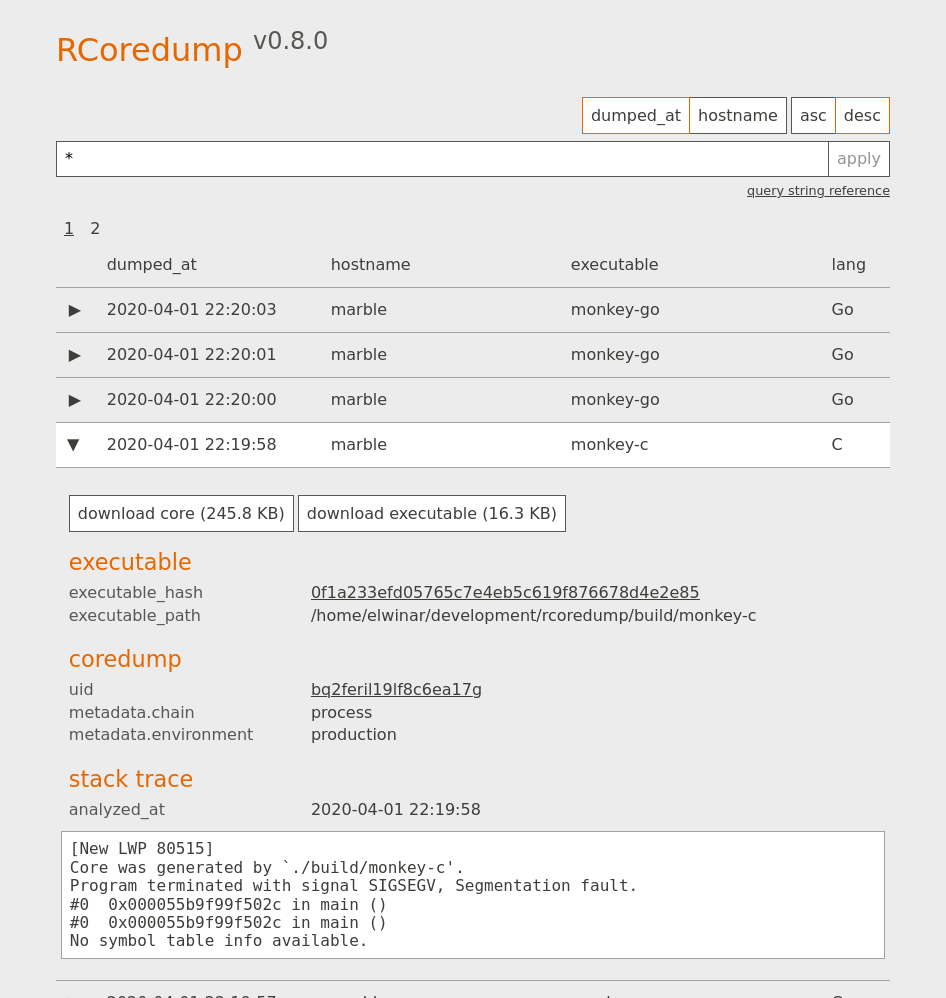
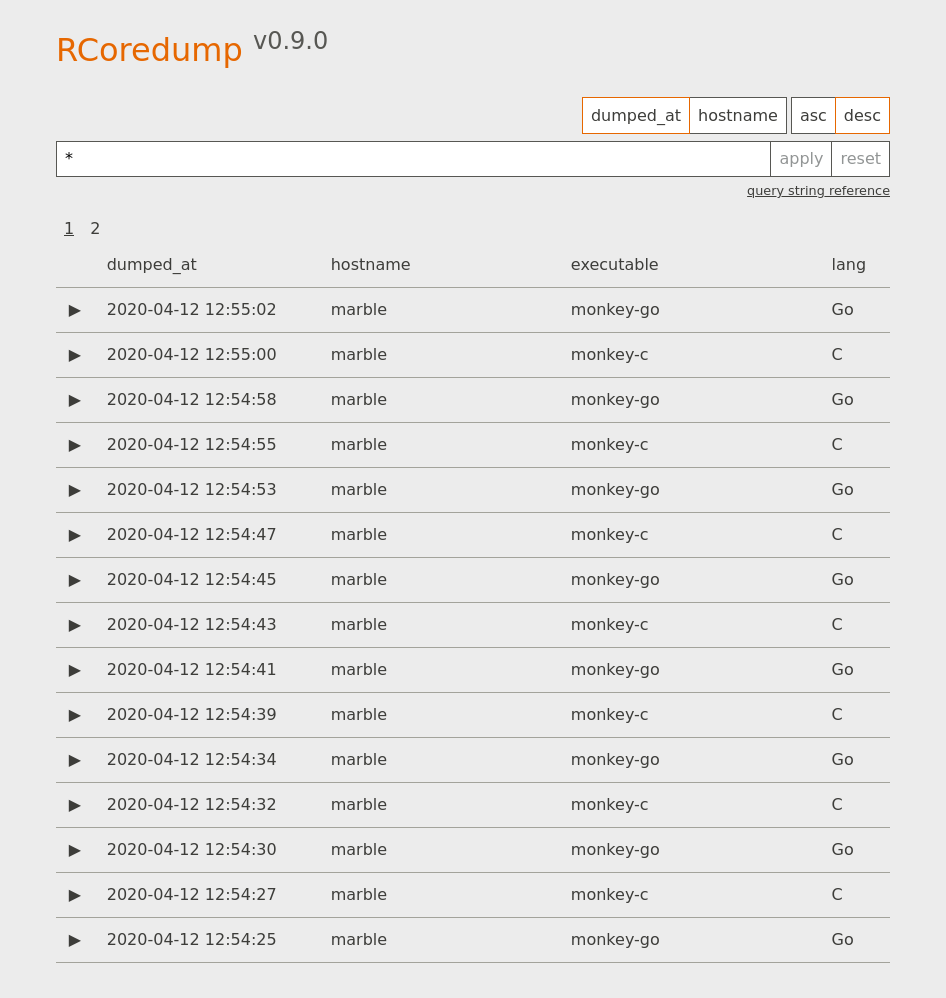
Release v0.9.0

diff --git a/bin/rcoredumpd/main.go b/bin/rcoredumpd/main.go
@@ -102,7 +102,7 @@ func (s *service) configure() {
 	fs.StringVar(&s.filelog, "filelog", "-", "path of the file to log into (\"-\" for stdout)")
 	fs.BoolVar(&s.printVersion, "version", false, "print the version of rcoredumpd")
 	fs.StringVar(&s.sizeBuckets, "size-buckets", "1MB,10MB,100MB,1GB,10GB", "buckets report the coredump sizes for")
-	fs.DurationVar(&s.retentionDuration, "retention-duration", 0, "duration to keep an indexed coredump (e.g: \"168h\")")
+	fs.DurationVar(&s.retentionDuration, "retention-duration", 0, "duration to keep an indexed coredump (e.g: \"168h\"), 0 to disable")
 
 	// Interface options.
 	fs.StringVar(&s.indexType, "index-type", "bleve", "type of index to use (values: bleve)")

diff --git a/README.md b/README.md
@@ -88,7 +88,7 @@ Usage of rcoredumpd: rcoredumpd [options]
   -index-type string
         type of index to use (values: bleve) (default "bleve")
   -retention-duration duration
-        hours to keep an indexed coredump (default 168h0m0s)
+        duration to keep an indexed coredump (e.g: "168h"), 0 to disable
   -size-buckets string
         buckets report the coredump sizes for (default "1MB,10MB,100MB,1GB,10GB")
   -store-type string

diff --git a/CHANGELOG.md b/CHANGELOG.md
@@ -5,6 +5,8 @@ The format is based on [Keep a Changelog](https://keepachangelog.com/en/1.0.0/),
 and this project adheres to [Semantic Versioning](https://semver.org/spec/v2.0.0.html).
 
 ## Unreleased
+
+## [v0.9.0](https://github.com/elwinar/rcoredump/releases/tag/v0.9.0) - 2020-04-12
 ### Added
 - Reset button on the searchbar
 - Add a cleanup routine and endpoint
